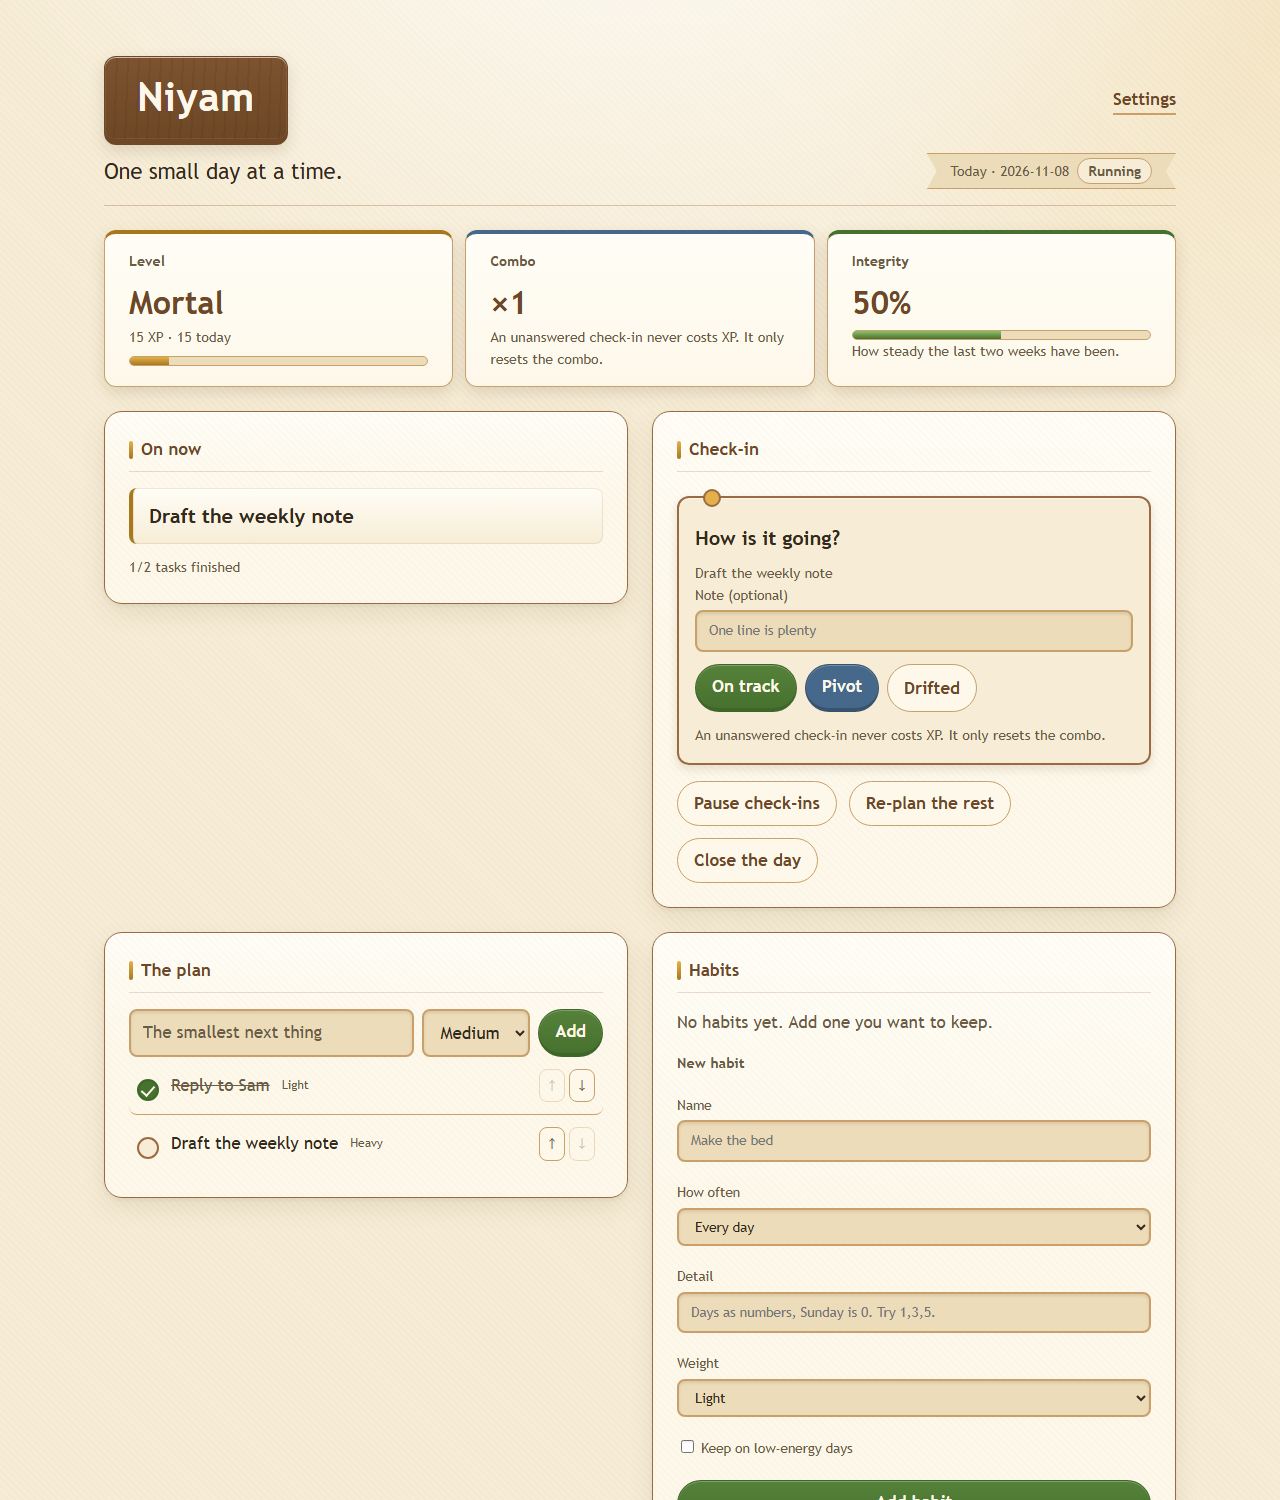
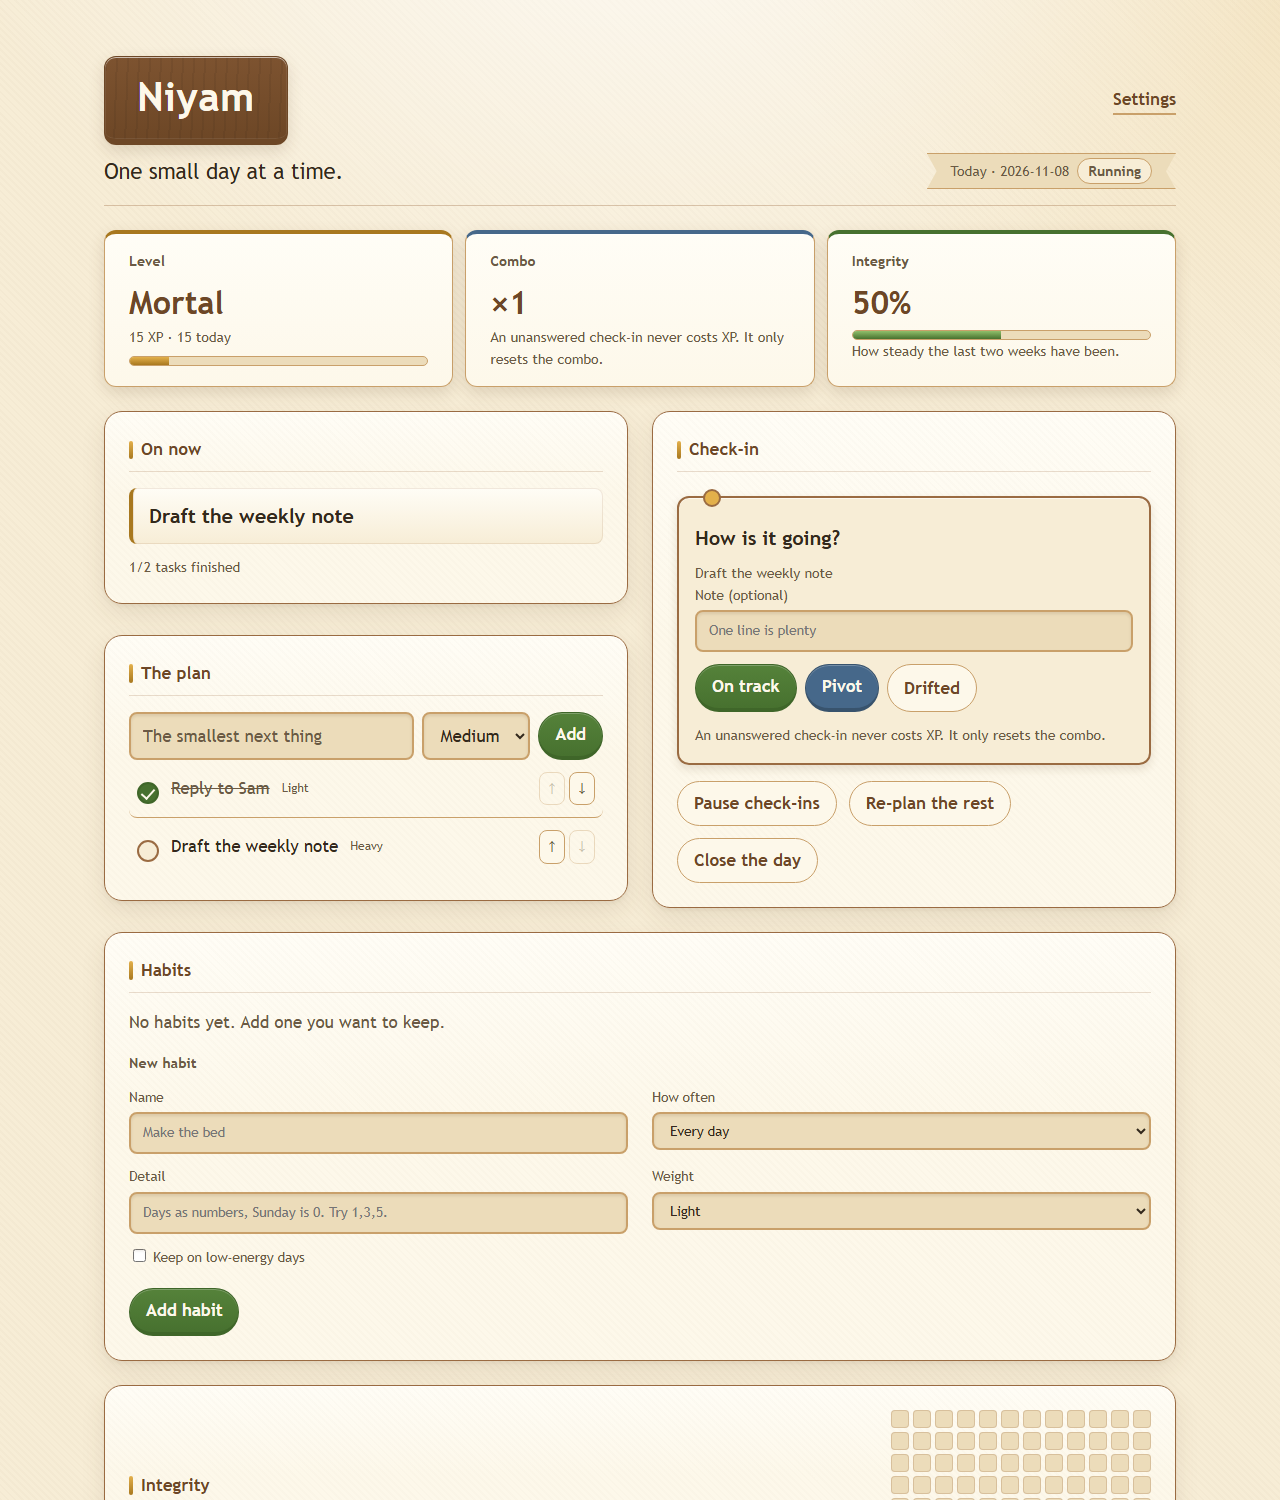
Design revamp: fill the running-day dashboard columns
On a running day the check-in board is the tall card, so the short "On now"
panel left a blank block beneath it. The check-in panel now spans two grid rows
and the plan is pinned to column one, so the left column ends within 7px of the
check-in column at 1280px. Habits then takes the full width with its form
fields paired two-up, and nothing sits beside an empty column.

Draft, closed-day and settings layouts are untouched, as is the restored
16px/24px small-width panel padding.

🤖 Generated with Codebuff

Changed region(s): [[0.0625, 0.6133, 0.9375, 1.0], [0.0625, 0.3987, 0.5, 0.5827]]

diff --git a/src/app/globals.css b/src/app/globals.css
@@ -707,6 +707,49 @@ body {
     grid-column: 1 / -1;
   }
 
+  /* On a running day the check-in board is the tall card. It spans two rows so
+     the plan rises under "On now" and both columns finish together, instead of
+     leaving a blank block under the short card. */
+  .shell:has(.stats):has(.checkin) > .panel:has(.checkin) {
+    grid-row: span 2;
+  }
+
+  .shell:has(.stats):has(.checkin) > .panel:has(.task-form) {
+    grid-column: 1;
+  }
+
+  /* Habits then takes the full width; its fields pair up so the form does not
+     become one long column beside a nearly empty list. */
+  .shell:has(.stats):has(.checkin) > .panel:has(.settings-form) {
+    grid-column: 1 / -1;
+  }
+
+  .shell:has(.stats):has(.checkin) > .panel:has(.settings-form) .settings-form {
+    display: grid;
+    grid-template-columns: repeat(2, minmax(0, 1fr));
+    column-gap: var(--space-6);
+    row-gap: 0;
+  }
+
+  .shell:has(.stats):has(.checkin)
+    > .panel:has(.settings-form)
+    .settings-form
+    > .label,
+  .shell:has(.stats):has(.checkin)
+    > .panel:has(.settings-form)
+    .settings-form
+    > .field:has(input[type="checkbox"]) {
+    grid-column: 1 / -1;
+  }
+
+  .shell:has(.stats):has(.checkin)
+    > .panel:has(.settings-form)
+    .settings-form
+    > .button {
+    justify-self: start;
+    margin-top: var(--space-2);
+  }
+
   .masthead {
     display: grid;
     grid-template-columns: minmax(0, 1fr) auto;

diff --git a/docs/design.md b/docs/design.md
@@ -228,6 +228,12 @@ padding: `.panel` keeps its original `16px 24px 24px`, and the desktop media
 query raises it to 24px on all sides. At 320px the dashboard is a single column
 with no horizontal overflow.
 
+On a running day the check-in board is the tall card, so it spans two grid rows
+and the plan is pinned to column one, rising under "On now" instead of leaving
+a blank block. The habits panel then spans the full width and pairs its fields
+two-up, rather than sitting in one long column next to an empty one. At 1280px
+the left column ends at 901px and the check-in column at 908px.
+
 New tokens, used as fills behind text and never as text colours, so no contrast
 gate applies: `--parchment-0: #fffdf6` (panel and stat tops) and
 `--leaf-400: #55823a` (button gradient top). Verified in a headless Chrome

diff --git a/docs/handoff.md b/docs/handoff.md
@@ -356,6 +356,11 @@ Panel padding is back to 16px/24px on small screens and 24px only from the
 desktop breakpoint, so the 320px layout is single-column with no horizontal
 overflow.
 
+On a running day the check-in board spans two grid rows so the plan rises under
+"On now"; at 1280px the left column ends at 901px and the check-in column at
+908px. The habits panel spans the full width and pairs its form fields two-up,
+so no part of the dashboard sits beside an empty column.
+
 Commits: `905bc4d` (palette, frame, sign) and the slips/motion commit that
 follows it, both `design revamp:` prefixed. `npm test` and `npm run build` pass.
 
